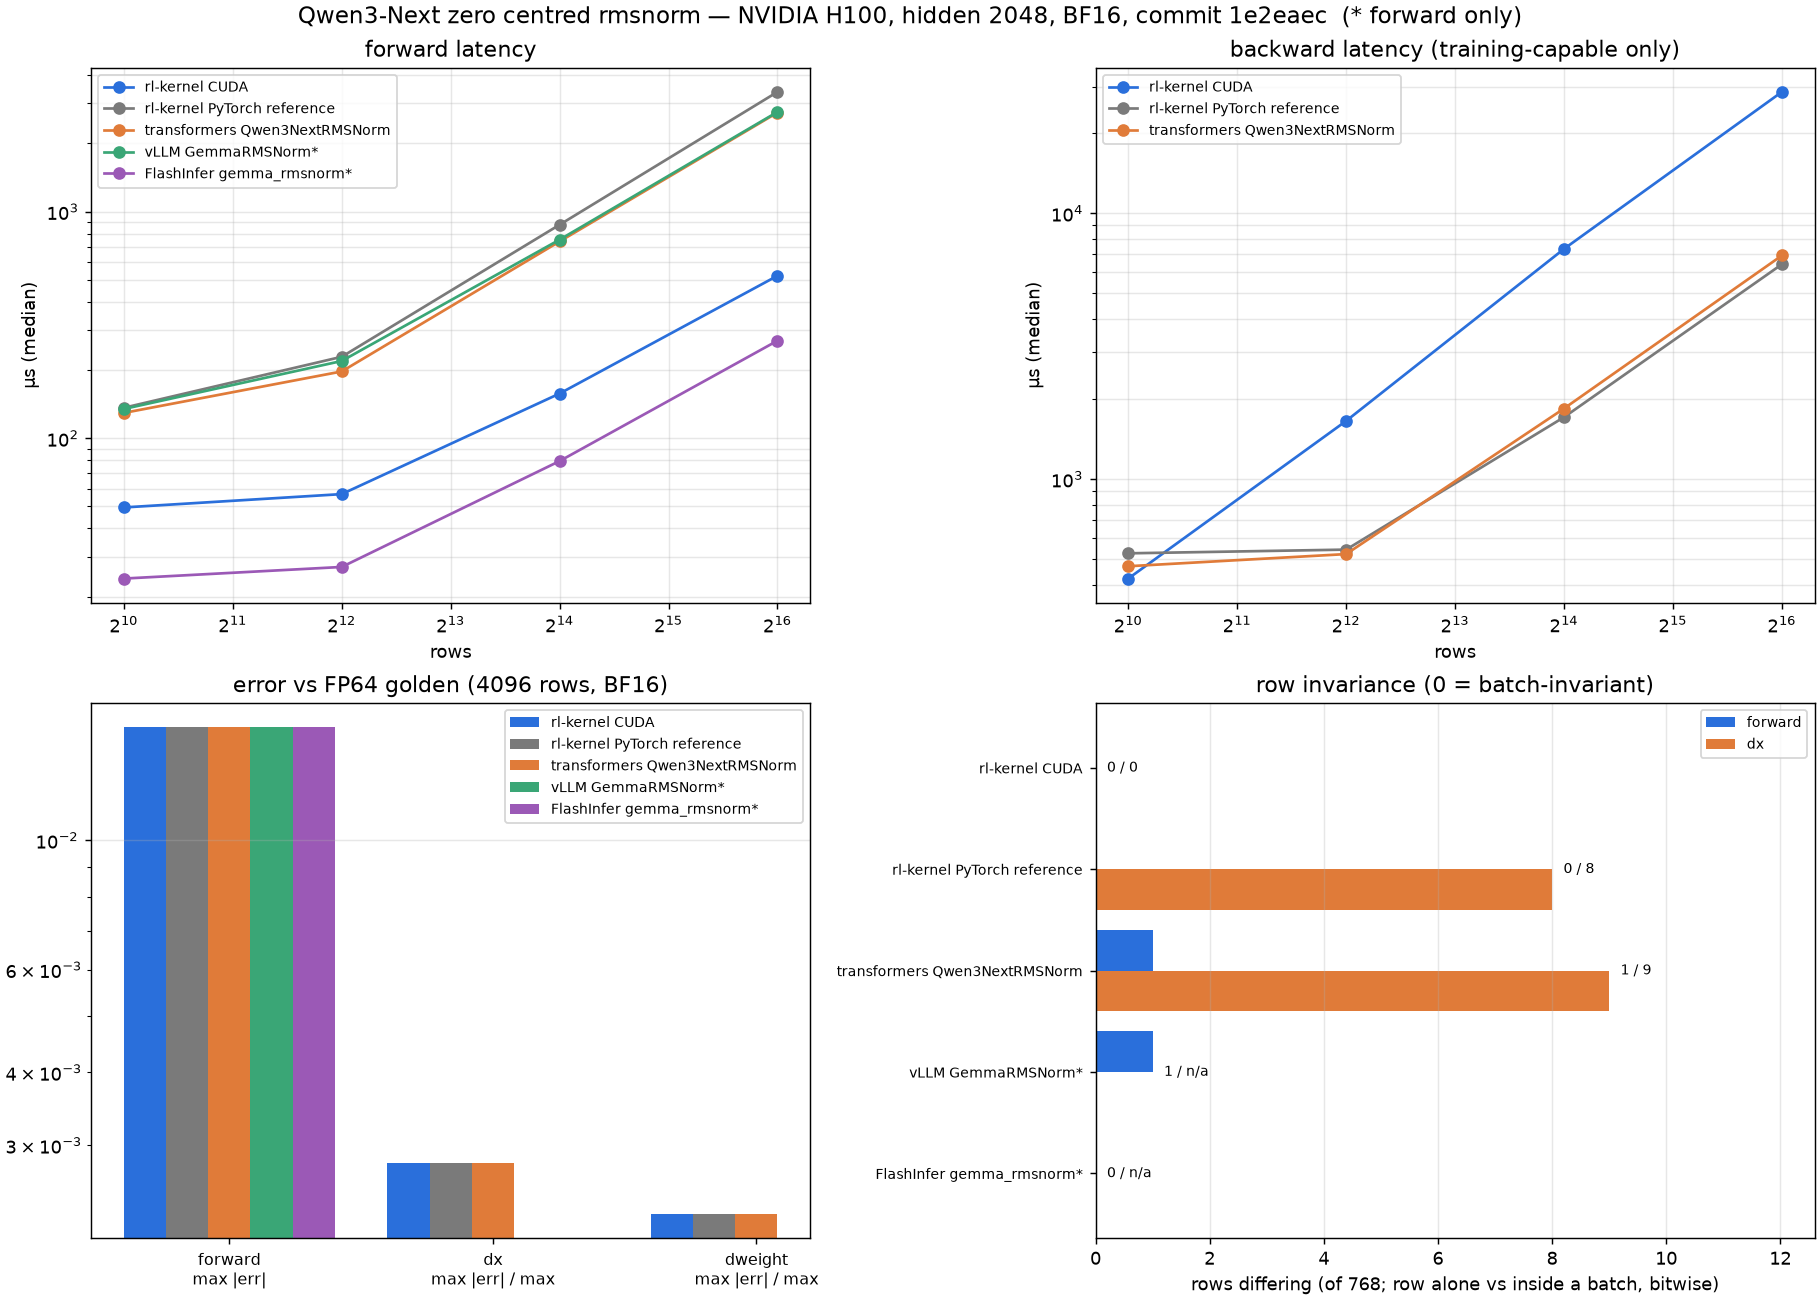
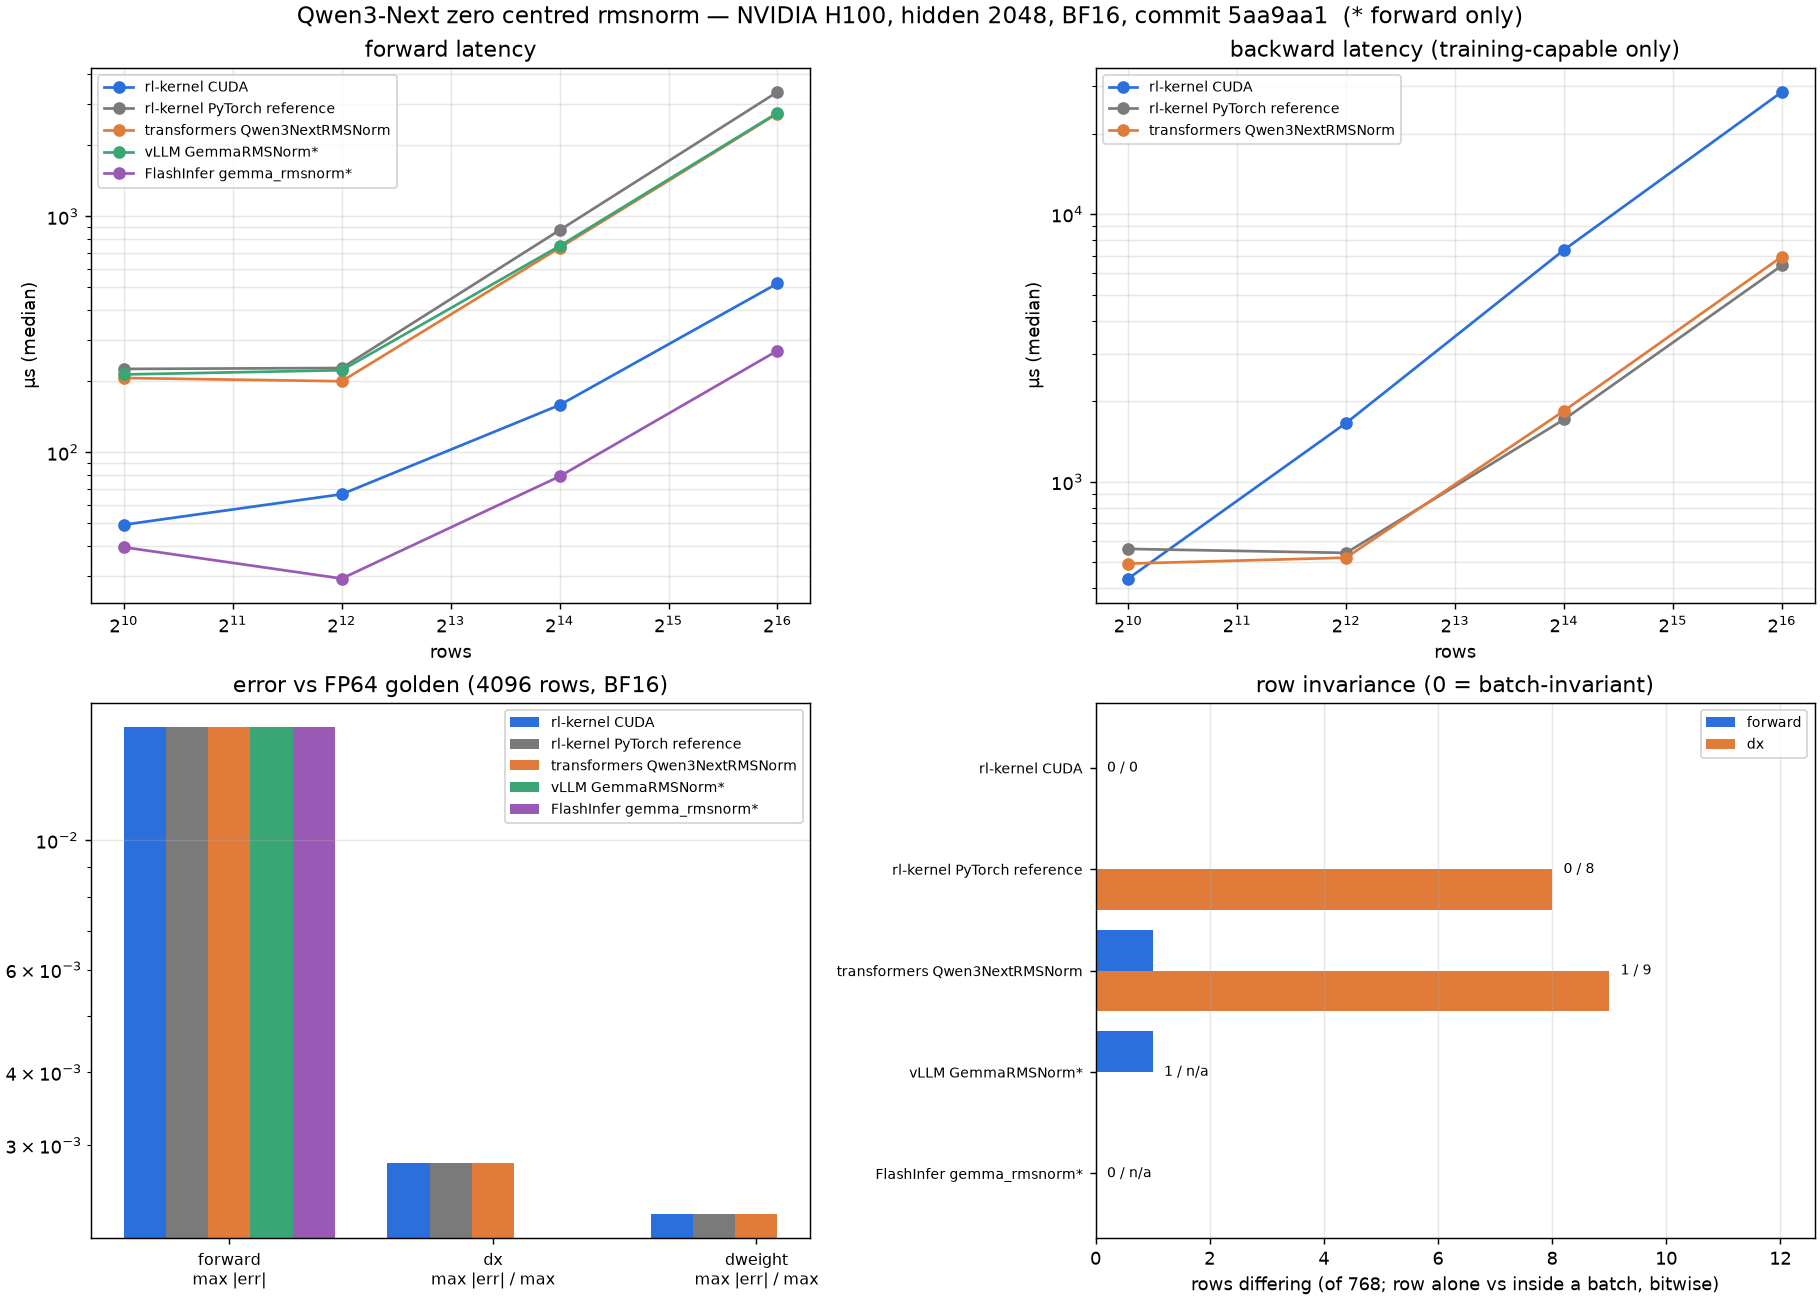
H100 #468: re-run norm report and reuse checks at 5aa9aa1c.
Update report.json, reuse JSON/figures, and bundle metadata on pr_assets.

diff --git a/pending/h100-qwen3-next-norm/pr468/reports/experiments/h100-pr468-h100/README.md b/pending/h100-qwen3-next-norm/pr468/reports/experiments/h100-pr468-h100/README.md
@@ -1,11 +1,15 @@
 # H100 evidence: Qwen3-Next norm PR #468
 
-PR #468, fork branch `feat/cuda-qwen3-next-gated-rmsnorm`, pinned head `1e2eaec0` (sm90, labelled H100 only).
+PR #468, fork branch `feat/cuda-qwen3-next-gated-rmsnorm`, pinned head `5aa9aa1c` (sm90, labelled H100 only).
 
 ## Commands
 
-Unit: `pytest tests/models/qwen3_next tests/ops/norm/test_rms_norm.py tests/ops/autograd/test_vjp_fp32.py tests/runtime/test_dispatch.py tests/validation/operators/test_ws1_gtest_gpu.py -q -p no:randomly -rfs`
-Evidence: `tools/validation/models/qwen3_next_norm_evidence.py --out report.json`
-Reuse: `tools/validation/models/qwen3_next_norm_reuse_check.py`
+Unit (unchanged from prior bundle): `pytest tests/models/qwen3_next … -q -p no:randomly -rfs` @ `1e2eaec0` counts in `tests.json`.
 
-See `tests.json`, `logs/`, `report.json`, figures.
+Norm + reuse (re-run 2026-10-26 @ `5aa9aa1c`, idle GPU):
+
+- `tools/validation/models/qwen3_next_norm_evidence.py --out report.json`
+- `tools/validation/models/qwen3_next_norm_reuse_check.py --op qwen3_next_rms_norm`
+- `tools/validation/models/qwen3_next_norm_reuse_check.py --op rms_norm_gated`
+
+See `tests.json`, `logs/`, `report.json`, figures, reuse JSON/PNG.
